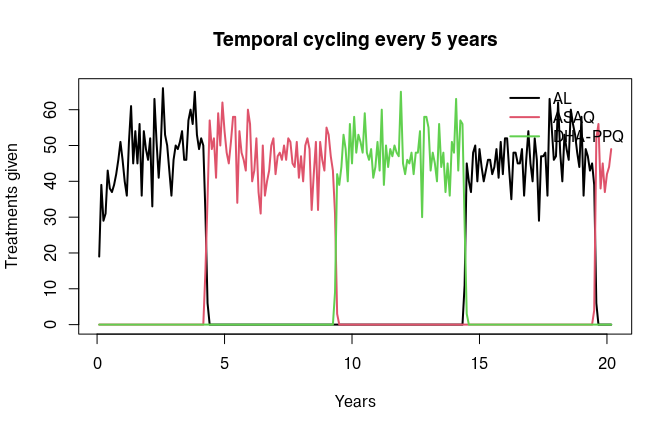
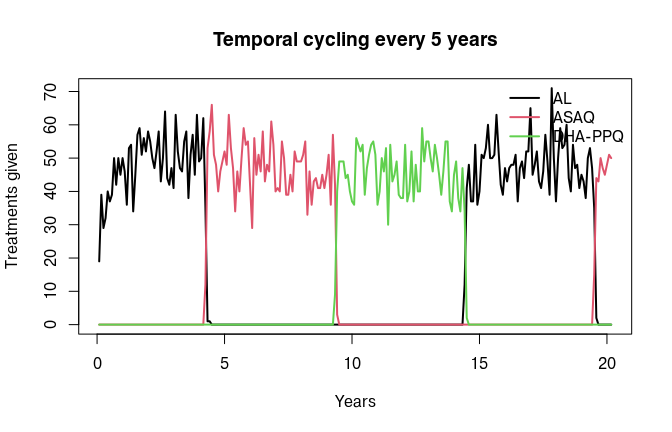
Update NEWS and vignettes for the two model fixes
The Resistance and NewDrugs vignettes described both issues as known
and unfixed; they now describe the behaviour as it is. The three
vignettes that run resistance simulations are rebuilt, since the
asymptomatic discount changes their numbers.

The outstanding oocyst frequency write-back in src/mosquito.cpp is
recorded under a Known issues heading in NEWS and flagged in the
NewDrugs vignette as best fixed alongside any transmission blocking
work, since it sits in the same function.

diff --git a/NEWS.md b/NEWS.md
@@ -8,8 +8,27 @@
   `drug_list_create(resistance_flag = TRUE)` with `ft > 0`. A strain whose
   status change day equalled its acquisition day divided by zero. The window is
   now guarded; behaviour is unchanged wherever it previously did not crash.
+* The discounting of an asymptomatic strain's probability of surviving
+  treatment, by how far through its course that strain is, now takes effect. It
+  was computed with integer arithmetic and truncated to zero for any strain
+  partway through its course, so it had silently done nothing. Which strains
+  survive a late parasitological failure is unchanged.
+* Gametocyte sterilisation is now applied to artemisinin *sensitive* strains
+  rather than resistant ones, matching the documented intent that artemisinin
+  sterilises the gametocytes of parasites sensitive to it. Switching
+  `gametocyte_sterilisation_flag` on therefore now gives the artemisinin
+  resistant parasite a transmission advantage, where previously it penalised
+  it. Only affects simulations with that flag set, which is not the default.
 * `drug_list_update()` now says which drug sequential cycling has switched to,
   rather than printing a bare number.
+
+## Known issues
+
+* `oocyst_reduction_by_artemisinin` is written back into the shared pre-drawn
+  oocyst frequency vector in `src/mosquito.cpp` rather than applied to a copy,
+  so a reduced value persists for later mosquitoes reusing that element until
+  the vector is regenerated the following year. Only affects simulations with
+  `gametocyte_sterilisation_flag` set.
 
 ## Documentation
 
